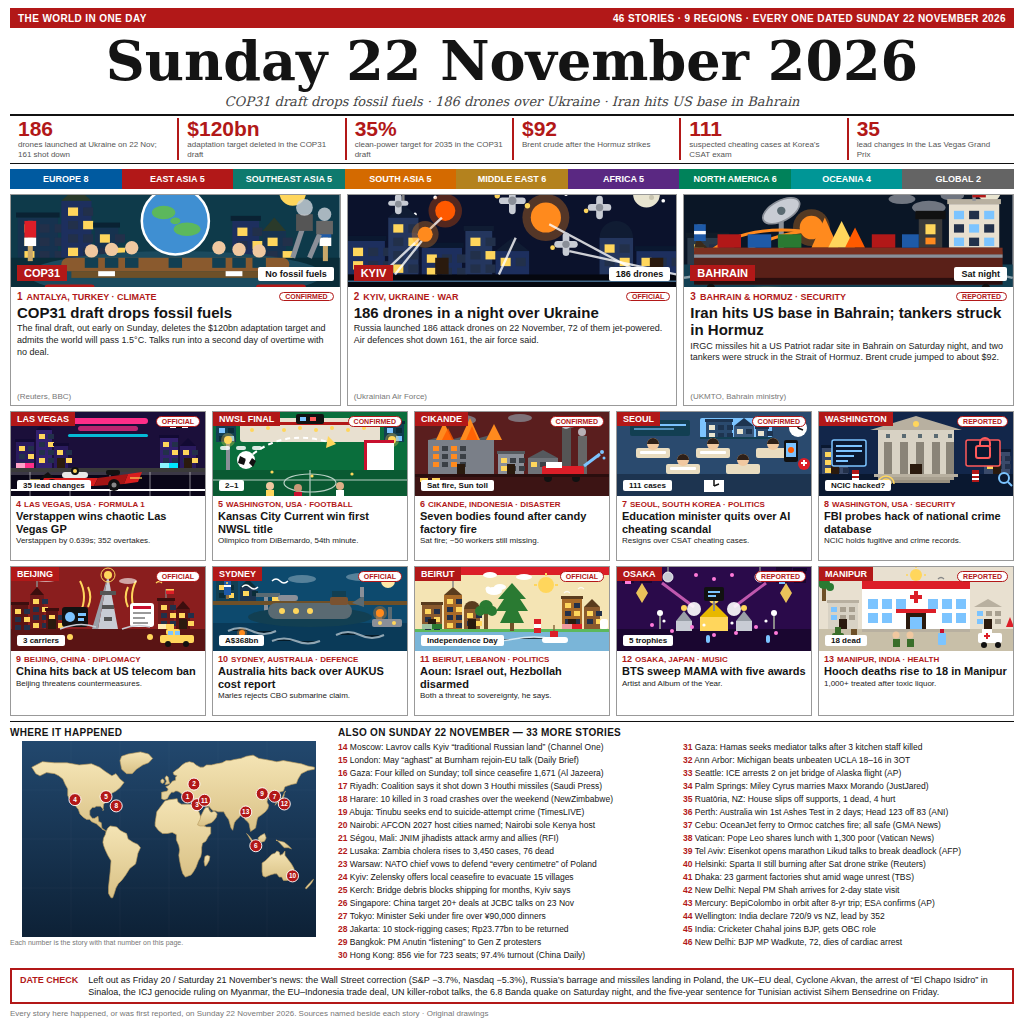
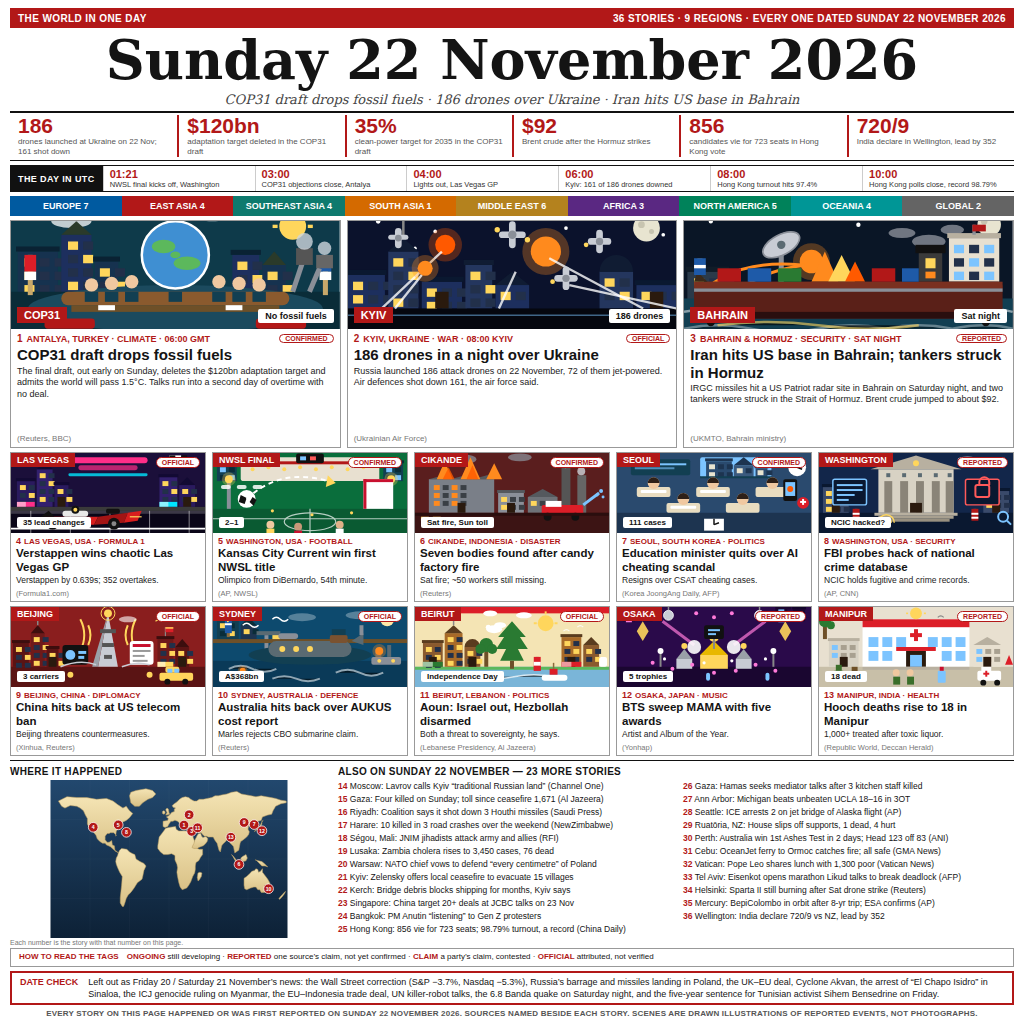
V7: 36 stories, UTC strip, judge text, sources on all cards

diff --git a/README.md b/README.md
@@ -6,7 +6,7 @@
 
 A 1024x1024 front-page image summing up the world's news on Sunday 22 November 2026, built by an AI agent for make.fun's “Sum up 22 November's world news in one image” bounty, $100 in USDC.
 
-Forty-six dated stories across nine regions, drawn as a newspaper front page on full-white paper with flat original illustrations. The leads are the COP31 draft dropping fossil fuels, 186 Russian drones over Ukraine, and Iran hitting a US base in Bahrain with tankers struck in Hormuz — followed by ten more illustrated cards: Verstappen winning a chaotic Las Vegas Grand Prix, Kansas City Current's first NWSL title, seven bodies found after the Cikande candy factory fire, South Korea's education minister quitting over an AI cheating scandal, the FBI probing a hack of the national crime database, China hitting back at the US telecom ban, Australia hitting back over the AUKUS cost report, Lebanon's Aoun demanding Israel out and Hezbollah disarmed, BTS sweeping the MAMA awards, and hooch deaths rising to 18 in Manipur. A world map pins all thirteen card stories, a numbers strip and a region bar count the day, and a 33-item “also on” list completes the 46 — including Australia's two-day Ashes win in Perth, the OceanJet fast-craft fire off Cebu with all aboard safe, Pope Leo XIV lunching with 1,300 poor people at the Vatican, Likud coalition talks opening in Tel Aviv, the Russian cargo ship Sparta II still burning off Helsinki, garment factory closures in Dhaka, Nepal's PM visiting New Delhi, BepiColombo entering Mercury orbit, and India declaring 720/9 against New Zealand. A date-check box names Friday and Saturday's big news — the Wall Street correction, Russia's barrage and missiles landing in Poland, the UK–EU deal, Cyclone Akvan, the arrest of “El Chapo Isidro”, the world court's genocide ruling on Myanmar, the EU–Indonesia trade deal, UN killer-robot talks, the 6.8 Banda quake, and the five-year sentence for Tunisian activist Sihem Bensedrine — as deliberately left out, so every story on the page is from Sunday 22 November.
+Thirty-six dated stories across nine regions, drawn as a newspaper front page on full-white paper with flat original illustrations. The leads are the COP31 draft dropping fossil fuels, 186 Russian drones over Ukraine, and Iran hitting a US base in Bahrain with tankers struck in Hormuz — followed by ten more illustrated cards: Verstappen winning a chaotic Las Vegas Grand Prix, Kansas City Current's first NWSL title, seven bodies found after the Cikande candy factory fire, South Korea's education minister quitting over an AI cheating scandal, the FBI probing a hack of the national crime database, China hitting back at the US telecom ban, Australia hitting back over the AUKUS cost report, Lebanon's Aoun demanding Israel out and Hezbollah disarmed, BTS sweeping the MAMA awards, and hooch deaths rising to 18 in Manipur. A world map pins all thirteen card stories, a numbers strip and a region bar count the day, a "The day in UTC" timeline anchors six verified hours, and a 23-item “also on” list completes the 36 — including Gaza talks, Hong Kong's record 98.79% election turnout, Australia's two-day Ashes win in Perth, the OceanJet fast-craft fire off Cebu with all aboard safe, Pope Leo XIV lunching with 1,300 poor people at the Vatican, Likud coalition talks opening in Tel Aviv, the Russian cargo ship Sparta II still burning off Helsinki, and BepiColombo entering Mercury orbit. Every card names its sources, a tag legend explains the verification labels, and a date check lists the 20/21 November news deliberately left out. A date-check box names Friday and Saturday's big news — the Wall Street correction, Russia's barrage and missiles landing in Poland, the UK–EU deal, Cyclone Akvan, the arrest of “El Chapo Isidro”, the world court's genocide ruling on Myanmar, the EU–Indonesia trade deal, UN killer-robot talks, the 6.8 Banda quake, and the five-year sentence for Tunisian activist Sihem Bensedrine — as deliberately left out, so every story on the page is from Sunday 22 November.
 
 ## Run it
 
